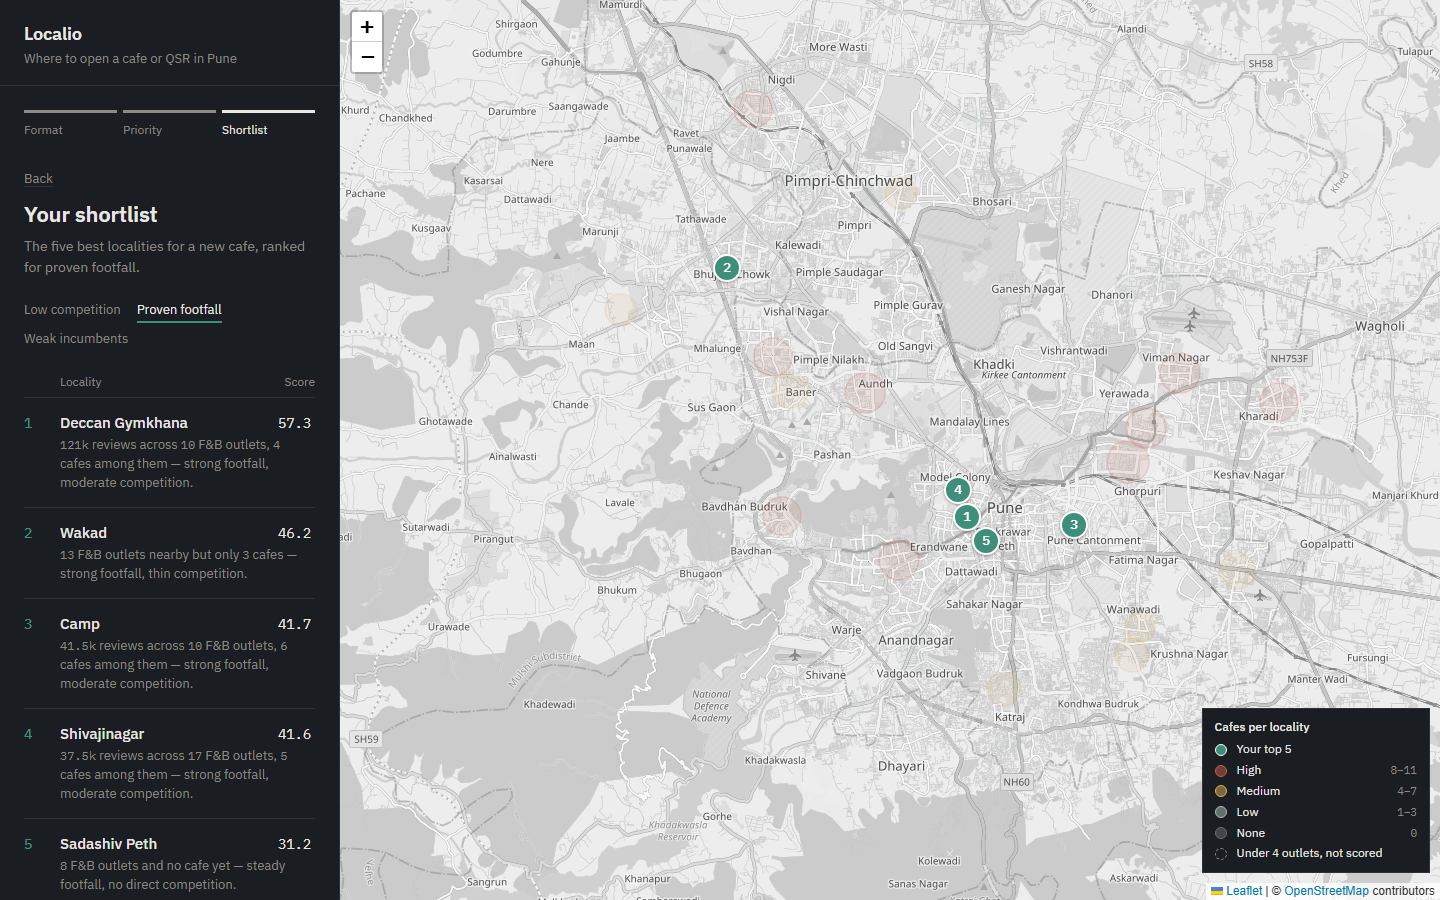
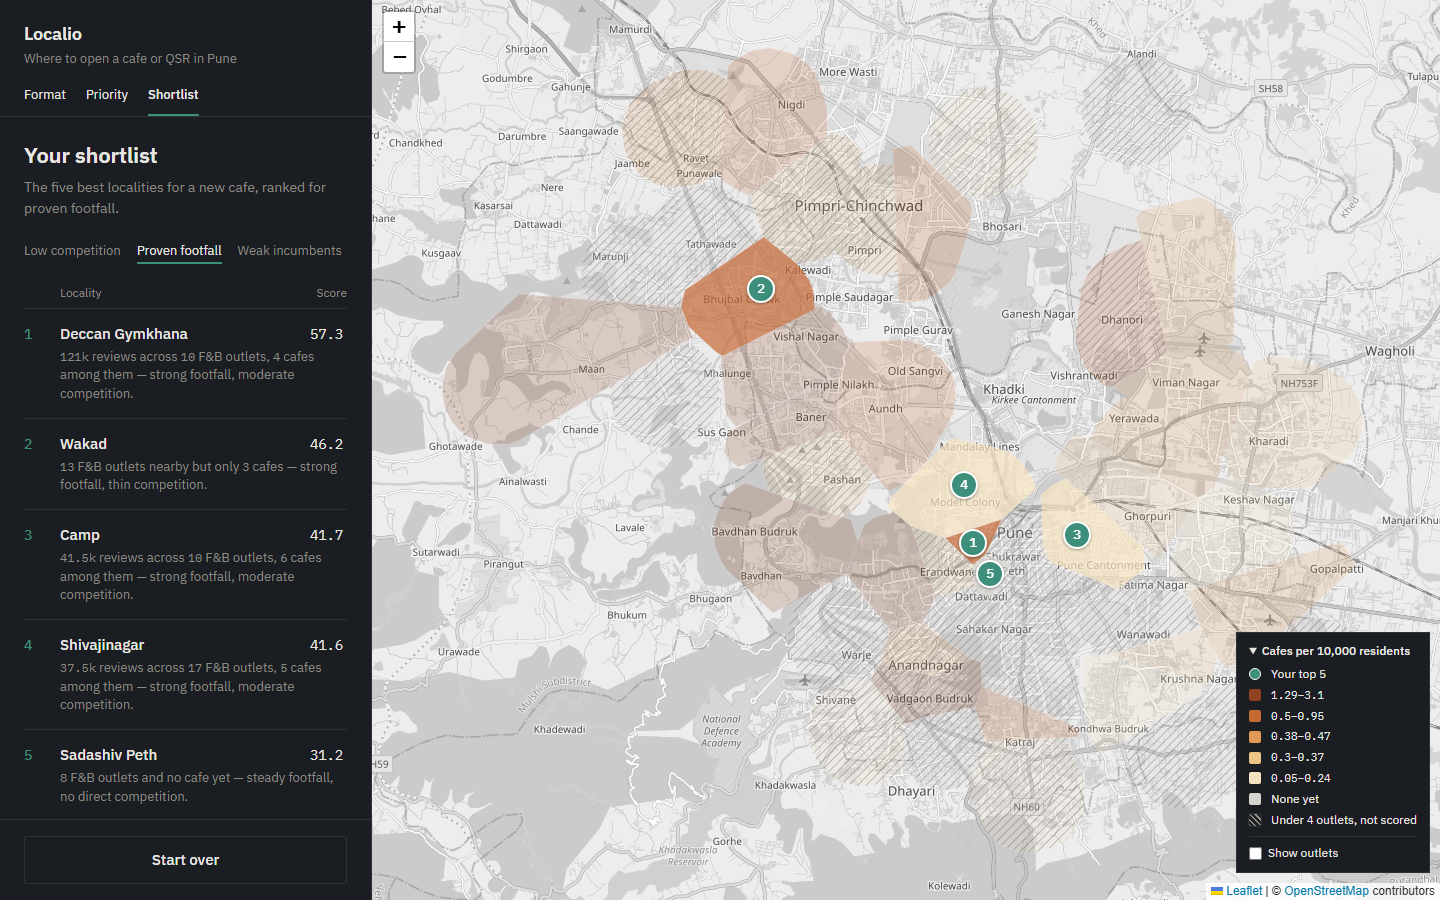
Add scope and status to the README and bring it up to v2
Adds what's in and out of scope, a status table for v1, v2 part A and
the planned part B, and links to the architecture, decisions and
licence documents. The usage, data and scoring sections now describe
the catchment choropleth instead of bubbles and tiers, and the
screenshot shows the new layout.

Refs #9

diff --git a/README.md b/README.md
@@ -8,7 +8,23 @@ It answers one question, end to end: **"I want to open a cafe (or QSR) in Pune. 
 
 This is not a general-purpose map dashboard. Every screen moves you toward a ranked, justified shortlist of localities.
 
-![The shortlist step: five Pune localities ranked for a new cafe, each with a score and a one-line reason, and numbered markers on the map](docs/screenshot.png)
+![The shortlist step: five Pune localities ranked for a new cafe, each with a score and a one-line reason, and numbered markers over a map of catchments shaded by cafes per 10,000 residents](docs/screenshot.png)
+
+## Scope
+
+**In:** Pune cafes and QSRs; 51 localities; a reproducible containerised pipeline from seed CSV to a scored map; a guided flow that ends in a ranked, explained top 5.
+
+**Out:** other cities and categories, rent and footfall counts from paid sources, and anything live. The seed is a one-off snapshot, so Localio says where the gaps were on 18 September 2026, not where they are today.
+
+## Status
+
+| | What | State |
+|---|---|---|
+| v1 | Pipeline with validation, two-container Compose setup, three-step map | done |
+| v2 part A | Catchments with population, choropleth, fitted map, marker collision, fixed panel footer | done, in review |
+| v2 part B | Footfall model and market types (scikit-learn), detail drawer, chat over the localities, test harness, `make verify` | in progress for the final submission |
+
+[docs/ARCHITECTURE.md](docs/ARCHITECTURE.md) has diagrams of the current and planned setup. [DECISIONS.md](DECISIONS.md) logs the choices behind it.
 
 ## Run it
 
@@ -41,17 +57,21 @@ docker compose up -d web
 The panel walks you through three steps, and the map follows along.
 
 1. **What are you opening?** Pick cafe or QSR. The map shows every outlet of that kind, with the other kind in grey so you can see where people already go to eat.
-2. **What matters most?** Pick a lens: low competition, proven footfall or weak incumbents. The map switches to one circle per locality, sized by how many of your format are there and coloured by how saturated it is.
-3. **Your shortlist.** The top five localities for that lens, each with a score and a one-line reason built from its numbers. Click a row to fly to it. You can switch lenses here and the list re-ranks on the spot.
+2. **What matters most?** Pick a lens: low competition, proven footfall or weak incumbents. The map shades each locality's catchment by how many of your format there are per 10,000 residents. Hatched areas have too few outlets to score.
+3. **Your shortlist.** The top five localities for that lens, each with a score and a one-line reason built from its numbers. Click a row to fly to it; hover one to find its marker. You can switch lenses here and the list re-ranks on the spot.
+
+Completed steps in the rail at the top of the panel take you back. On a phone the panel is a sheet under the map; drag its handle to resize it.
 
 The URL keeps your place (for example `#shortlist/qsr/footfall`), so a shortlist can be bookmarked or sent to someone.
 
 ## How it works
 
-Two containers, run with Docker Compose:
+Two containers, run with Docker Compose (diagram in [docs/ARCHITECTURE.md](docs/ARCHITECTURE.md)):
 
-- `data/` reads the seed file, cleans it, aggregates by locality, scores each locality and writes GeoJSON to `./output/`. It then exits.
+- `data/` reads the seed file, cleans it, aggregates by locality, joins each locality's catchment and population, scores each locality and writes GeoJSON to `./output/`. It then exits.
 - `web/` is nginx. It serves the map from `web/static/` and the files in `./output/` at `/data/`. It only starts after `data` exits successfully, so it never serves a map without numbers.
+
+A third service, `catchments`, rebuilds the population file. It needs network access, so it sits behind a Compose profile and never runs on `docker compose up`.
 
 `./output/` is a bind mount, not a named volume. A named volume keeps the previous run's files, and the map would quietly show stale numbers. For the same reason nginx sends `/data/` with `Cache-Control: no-store`.
 
@@ -75,7 +95,7 @@ The map lets you swap those weights for one of three lenses (low competition, pr
 
 Only localities with at least 4 cafes and QSRs combined are scored. Below that, one extra outlet swings the numbers too much to mean anything. Those localities still appear on the map, marked as not enough data.
 
-Each locality also gets a **saturation tier** per category: none, low, medium or high. The cut points are the 40th and 75th percentiles of non-zero counts, worked out separately for cafes and QSRs. For cafes that comes to 1–3 low, 4–7 medium and 8+ high. QSRs are sparser: 1 low, 2–3 medium, 4+ high.
+The map shades each catchment by **outlets per 10,000 residents** rather than raw counts, because 8 cafes among 300,000 people is a thinner market than 5 among 20,000. Non-zero values fall into five quantile classes, worked out separately for cafes, QSRs and both together. Zero gets its own grey class: "none yet" is an answer, not the bottom of a scale.
 
 ### Why localities, not grid cells
 
@@ -87,7 +107,7 @@ Deccan Gymkhana has 121,097 reviews across its outlets. The next highest, Korega
 
 ### Checking the numbers
 
-A wrong aggregation still draws a map that looks perfectly fine. So the pipeline checks its own output against known figures before writing anything: 259 POIs, 51 localities, 165 cafes and 94 QSRs, 23 scored localities, and the top three for each category. If any check fails it exits with an error and writes nothing. The expected values live in [data/localio/validate.py](data/localio/validate.py); update them if you swap in a different dataset.
+A wrong aggregation still draws a map that looks perfectly fine. So the pipeline checks its own output against known figures before writing anything: 259 POIs, 51 localities, 165 cafes and 94 QSRs, a catchment with people in it for every locality, 23 scored localities, and the top three for each category. If any check fails it exits with an error and writes nothing. The expected values live in [data/localio/validate.py](data/localio/validate.py); update them if you swap in a different dataset.
 
 ## Data
 
@@ -96,6 +116,8 @@ A wrong aggregation still draws a map that looks perfectly fine. So the pipeline
 It was exported once from the original spreadsheet so that changes show up in diffs. Excel date serials became ISO dates and day-fraction times became `HH:MM`; no values were altered. The pipeline still reads `.xlsx` directly if you point it at one.
 
 One row in the source is blank, and the pipeline drops it and logs why. That leaves 259 POIs: 165 cafes and 94 QSRs.
+
+`seed_data/catchments.geojson` gives each locality an area and a population. The area is its Voronoi cell, cut back to within 2 km of its own outlets; OpenStreetMap has no municipal boundary for Pune to clip to. The population comes from Meta's High Resolution Settlement Layer (30 m cells, CC BY 4.0): 5.15 million people across the 51 catchments. [seed_data/SOURCES.md](seed_data/SOURCES.md) explains how the file is built and how to rebuild it.
 
 ## Troubleshooting
 
@@ -111,4 +133,4 @@ One row in the source is blank, and the pipeline drops it and logs why. That lea
 
 ## License
 
-MIT. See [LICENSE](LICENSE).
+The code is MIT. See [LICENSE](LICENSE). The data and tools come under their own terms, listed in [DATA_LICENSES.md](DATA_LICENSES.md). In particular, the Google Places seed is included for coursework and is not MIT licensed.
